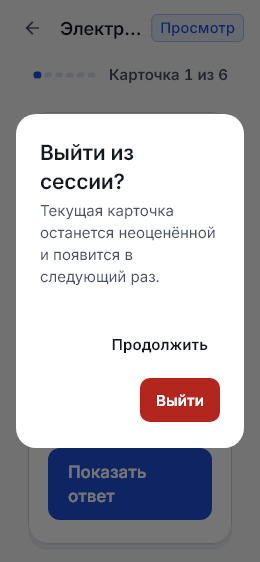
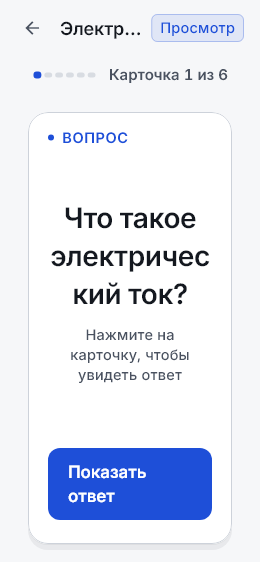
docs(ui-ux): кадры планшета 768×1024 и телефона 360×800, финальные числа
Добавлены production-кадры 768×1024 и 360×800 (лента/классика/колоды), зафиксировано исправление поиска на 360 px, обновлены размер выборки (2660 тестов), покрытие 90,9 % рукописного кода и время финальной сборки.

diff --git a/journal/ui-ux-redesign/tools/render_v3_test.dart b/journal/ui-ux-redesign/tools/render_v3_test.dart
@@ -50,6 +50,8 @@ const Cfg _c2k = Cfg('2k', Size(1706.7, 940), 1.24);
 const Cfg _cFhd = Cfg('fhd', Size(1280, 720), 1.0);
 const Cfg _cMobile = Cfg('m390', Size(390, 844), 1.0);
 const Cfg _cNarrow = Cfg('m260', Size(260, 562), 1.0);
+const Cfg _cTablet = Cfg('t768', Size(768, 1024), 1.0);
+const Cfg _cM360 = Cfg('m360', Size(360, 800), 1.0);
 
 final DateTime _now = DateTime.utc(2026, 11, 24, 12);
 
@@ -298,9 +300,29 @@ void main() {
     await _pump(tester, _cFhd, '/decks/deck-1/feed');
     await _shoot(tester, '17_feed_fhd_light');
     await _pump(tester, _cNarrow, '/decks/deck-1/feed');
-    await tester.tap(find.byType(GestureDetector).first);
-    await tester.pumpAndSettle();
     await _shoot(tester, '18_feed_m260_light');
+    expect(tester.takeException(), isNull);
+
+    // Планшет 768×1024 и телефон 360×800 — контрольные размеры задания.
+    await _pump(tester, _cTablet, AppRoutes.decksPath);
+    await _shoot(tester, '19_decks_tablet768_light');
+    await _pump(tester, _cTablet, '/decks/deck-1/feed');
+    await _shoot(tester, '20_feed_tablet768_light');
+    await tester.tap(find.text('Что такое электрический ток?'));
+    await tester.pumpAndSettle();
+    await _shoot(tester, '21_feed_answer_tablet768_light');
+    await _pump(tester, _cTablet, '/decks/deck-1/study');
+    await tester.tap(find.byKey(const ValueKey<String>('review-card')));
+    await tester.pumpAndSettle();
+    await _shoot(tester, '22_classic_answer_tablet768_light');
+
+    await _pump(tester, _cM360, AppRoutes.decksPath);
+    await _shoot(tester, '23_decks_m360_light');
+    await _pump(tester, _cM360, '/decks/deck-1/feed');
+    await _shoot(tester, '24_feed_m360_light');
+    await tester.tap(find.text('Что такое электрический ток?'));
+    await tester.pumpAndSettle();
+    await _shoot(tester, '25_feed_answer_m360_light');
     expect(tester.takeException(), isNull);
   });
 }

diff --git a/journal/STATE.md b/journal/STATE.md
@@ -1845,10 +1845,10 @@ Baseline: `fvm flutter analyze --no-pub` — 0 issues; полный
   в листе режимов — «Свободный просмотр: вертикальная лента без оценки и
   влияния на расписание».
 - **Визуальная приёмка.** `journal/ui-ux-redesign/tools/render_v3_test.dart`:
-  18 production-кадров (2K light/dark, FullHD, 390×844, 260×562);
+  25 production-кадров (2K light/dark, FullHD, 390×844, 360×800, 768×1024, 260×562);
   `tools/live_check.ps1` — живой Release (старт без ошибок, колоды, лист
   режимов). По кадрам исправлено: ширина карточки ленты (72 %), высота (78 %
-  рабочего поля), шевроны в жёлобе; мобильная классика 2×2.
+  рабочего поля), шевроны в жёлобе; мобильная классика 2×2; на 360 px поиск перестал сжиматься до «ктр» (сортировка/вид — в overflow-меню при <420 px).
 - **Документация.** `journal/ui-ux-redesign/{audit,report}.md`,
   `docs/decisions/ADR-044-feed-browse-mode.md`, `ADR-045-design-system-v3.md`,
   обновлён `AGENTS.md` (разделы ленты и дизайн-системы).
@@ -1857,7 +1857,7 @@ Baseline: `fvm flutter analyze --no-pub` — 0 issues; полный
 `fvm dart format --set-exit-if-changed lib test integration_test tool` — 0
 changed; `fvm flutter test --no-pub --exclude-tags golden` —
 **2660 passed + 16 skipped**; покрытие — **90,9 % рукописного кода (22 360/24 607)**, всего 83,6 % (24 119/28 860);
-`fvm flutter build windows --release --no-pub` — `cardflow.exe` (76,4 с; финальная инкрементальная сборка — 43,5 с);
+`fvm flutter build windows --release --no-pub` — `cardflow.exe` (76,4 с; финальная после правки — 81,2 с);
 живой Release — старт без ошибок (только строка Impeller в stderr).
 Независимый reviewer в сессии недоступен (L35): ревью Lead по чек-листу на
 снимке рабочего дерева.
